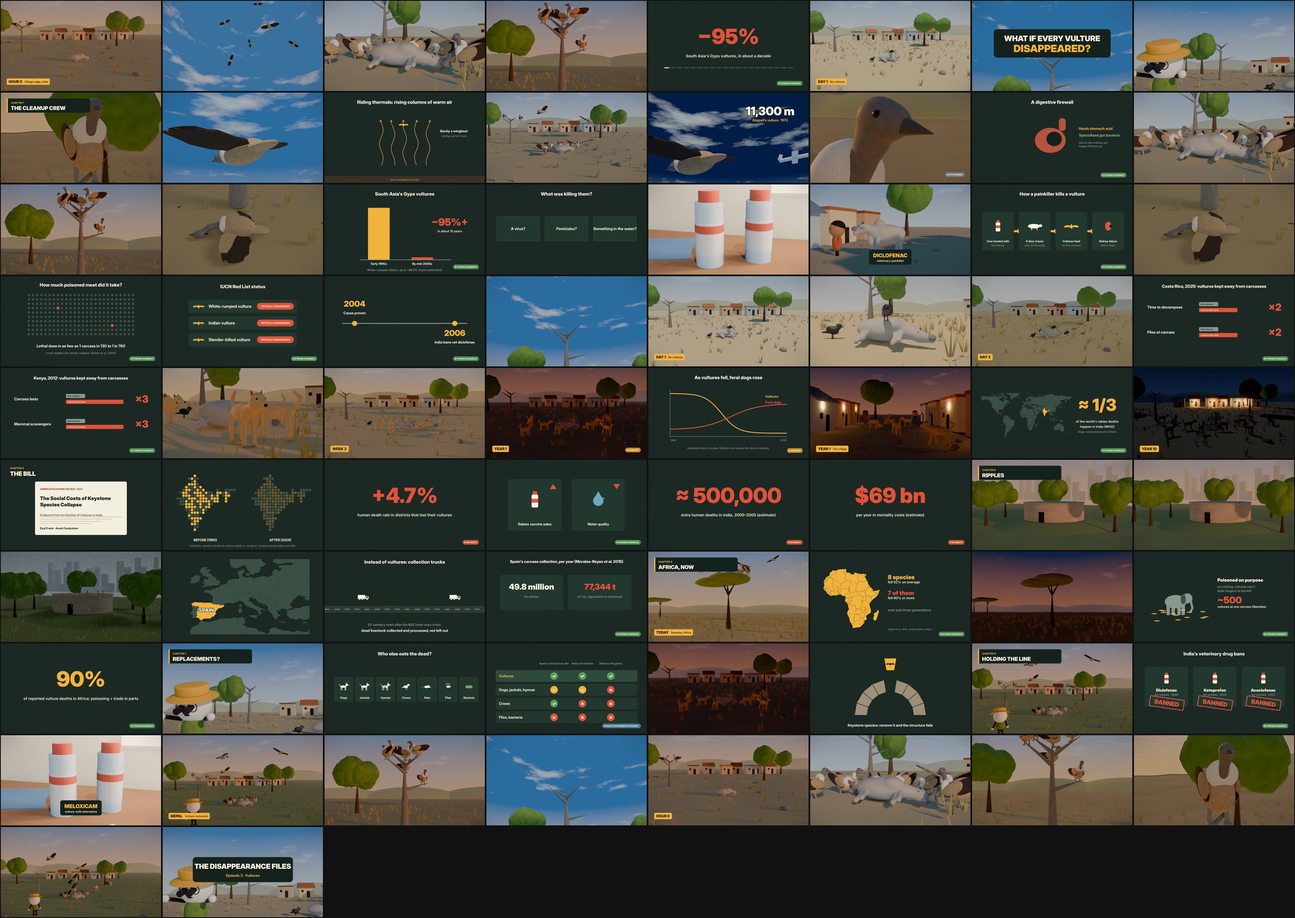
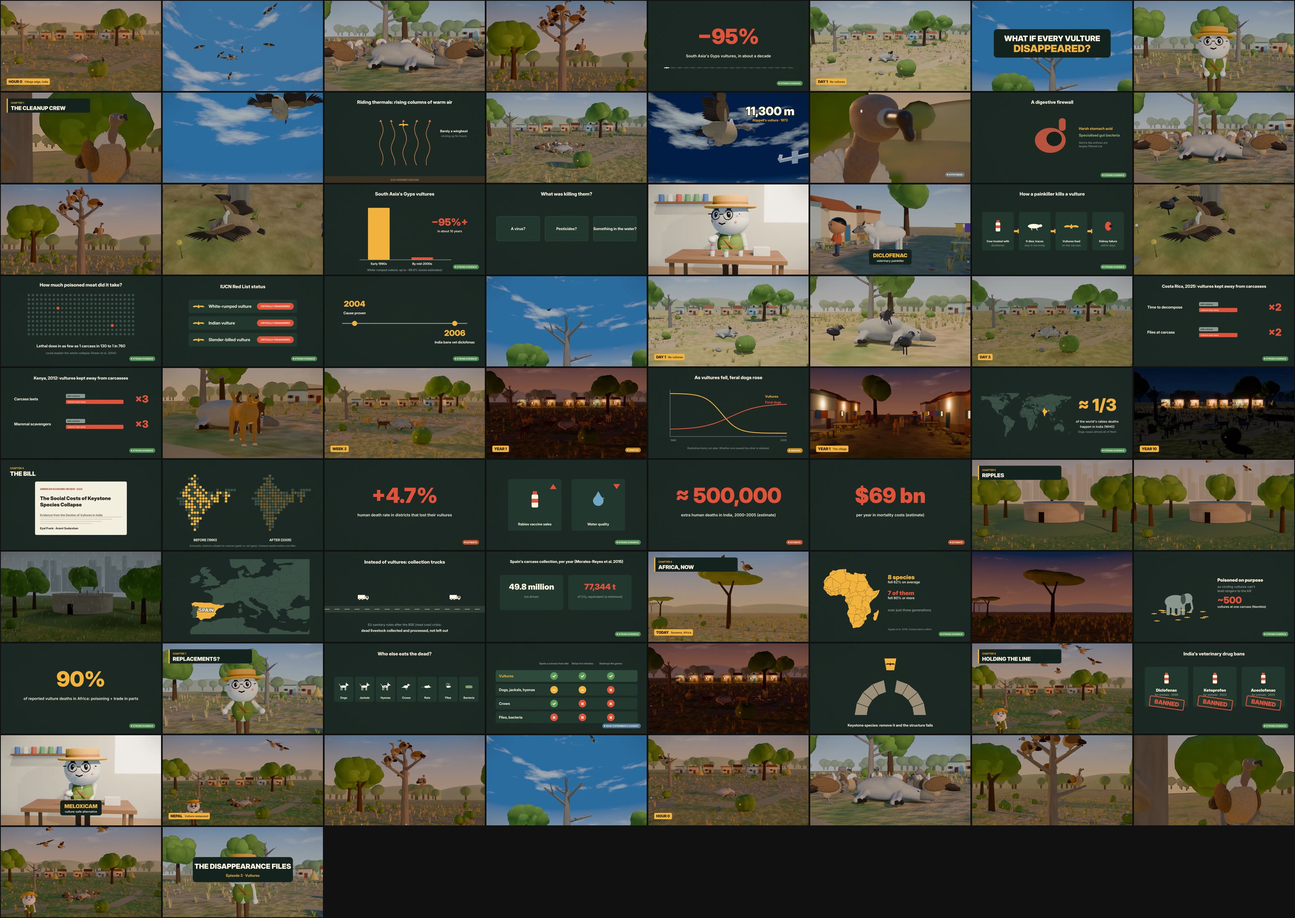
Episode 3 v2: fully animated 10:00 review cut
- 45 animated 3D scenes: rigged vultures (feed, land, soar, display,
  blink), dogs (walk, sniff, tug, sit), Pip (wave, talk, point,
  binoculars, look up), crows, cow and villagers
- detailed environments; one full-3D orbit shot
- same narration, score and timing; QC pass (74 scenes, 10:00,
  1080p24, no black frames)
- review master + compact 720p, SRT, chapters, QC report, edit stems

Claude-Session: https://claude.ai/code/session_01TihUFgZp2d2FxV6iVgmJbD

diff --git a/YOUTUBE_PRODUCTION/tools/vulture3d/render3.py b/YOUTUBE_PRODUCTION/tools/vulture3d/render3.py
@@ -232,6 +232,8 @@ SCENES = {
 FULL = {
     71: dict(plate="ROOST_wide", light="golden", actors=perched(7, 710), camera="orbit"),
 }
+SCENES[65] = dict(plate="ROOM", actors=[(PIP, "talk", (0.0, 0.9, 0), 0.0, 1.0, 65,
+                                         dict(schedule=[(0, "point"), (2.2, "talk")]))])
 SCENES[73] = dict(plate="DUMP_nepal", actors=feeders(4, 73) + landers(2, 730, delay0=0.6, gap=2.4) +
                   circlers(5, (0, 4, 0), r=(4, 9), z=(6, 13), seed=73) +
                   [(PIP, "look_up", (-5.5, -6.5, 0), 0.3, 1.0, 73, {})])

diff --git a/YOUTUBE_PRODUCTION/01_PROJECTS/what_if_vultures_disappeared/00_Project_Admin/production_tracker.md b/YOUTUBE_PRODUCTION/01_PROJECTS/what_if_vultures_disappeared/00_Project_Admin/production_tracker.md
@@ -1,7 +1,11 @@
 # Production Tracker: What If Every Vulture Disappeared? (Episode 3)
 
 - **Created:** 2026-11-26.
-- **Status:** review video exported. **Waiting for your approval** (final-video gate). The script gate is also still open.
+- **Status:** **v2 animated review video exported** (2026-11-26). **Waiting for your approval** (final-video gate). The script gate is also still open.
+- **v2 changes** (your feedback: "it's just images, not animation…"):
+  - every 3D scene is animated with rigged characters;
+  - detailed backgrounds;
+  - same narration, music and 10:00 timing.
 
 | Phase | Status | Outputs | Approval needed | Next action |
 |---|---|---|---|---|
@@ -10,8 +14,8 @@
 | Script draft | **Complete** | `04_Script/script_draft.md`, `script_final.md`, `script_sources.md` (1,355 words) | **Yes: still open.** Produced end-to-end at your request ("generate 10 minutes of video as soon as possible") | Review; revisions welcome |
 | Storyboard | **Complete** | `06_Storyboard/storyboard.md`, `scene_list.csv`, `storyboard.json`, `asset_requirements.md` (74 scenes) | — | — |
 | Style bible + 3D assets | **Complete** | `05_Style_Bible/STYLE_BIBLE_EP3.md`; procedural assets in `tools/vulture3d/lib.py` | — | — |
-| Scene builds + renders | **Complete** | `08_Scenes/renders/` (26 stills, 3 animations, settings JSON per shot), `08_Scenes/render_log*.txt` | — | — |
-| Animation / compositing | **Complete** | `09_Animation/SC001–SC074.mp4`, `scene_timing.json` | — | — |
+| Scene builds + renders | **Complete (v2)** | `08_Scenes/renders3/plates/` (27 detailed plates; JPEG copies committed), character passes and full-3D orbit (frames not committed; rebuild with `tools/vulture3d/render3.py`). v1 stills remain in `08_Scenes/renders/` | — | — |
+| Animation / compositing | **Complete (v2)** | 45 animated 3D scenes (`tools/vulture3d/compose3.py`) and 29 animated cards; `09_Animation/scene_timing.json` | — | — |
 | Narration | **Complete** | `10_Audio/narration/` (Kokoro `am_michael`, 74 files) | — | — |
 | Music + SFX | **Complete** | `10_Audio/music/score_vultures.wav` (original, synthesized), `10_Audio/sound_effects/` | — | — |
 | Edit + review export | **Complete** | `12_Exports/*_REVIEW.mp4`, `.srt`, chapters, `QC_REPORT.md`, `QC_contact_sheet.jpg`; edit package in `11_Edit/` | — | — |
@@ -21,7 +25,10 @@
 
 ## Known limitations
 
-- **Animation:** most shots are 3D stills with eased camera moves. Three are true 3D animations (circling flock, orbit around the roost, final wide). Creature limbs are not rigged or walk-cycled; this was a CPU-only render budget decision.
+- **Animation (v2):**
+  - Characters are rendered at 12 fps and held on twos; camera moves are at 24 fps.
+  - One shot (SC071) has a true 3D camera orbit. The others use eased 2D camera moves over detailed 3D plates.
+  - The reason is the CPU-only render budget.
 - **Narration voice:** Kokoro TTS. Pronunciation of "Rüppell's" and "Sudarshan" was respelled for the TTS. Listen for any odd words.
 - **Simplified visuals:**
   - The dog-vs-vulture trend chart is labelled "illustrative, not data".

diff --git a/YOUTUBE_PRODUCTION/01_PROJECTS/what_if_vultures_disappeared/00_Project_Admin/production_log.md b/YOUTUBE_PRODUCTION/01_PROJECTS/what_if_vultures_disappeared/00_Project_Admin/production_log.md
@@ -7,3 +7,12 @@
 - Blender look-dev: fixed metaball capsule sizing (absolute half-length), sky/haze compositing (Env pass + mist on geometry only), vulture proportions, beak, fallen pose; point lights were placed at the origin (bug) - fixed, P07/P18 re-rendered
 - Renders: 26 stills at 2304x1296 (13-60 s each), A01 68 f, A02 108 f, A03 94 f at 1600x900
 - Cards: 24 designs; layout fixes (tag position, compare legend, bans stamp, poison layout)
+- v2 (2026-11-26): rigs.py, envs2.py, render3.py, compose3.py.
+  - Plates: 27 at 2304×1296 / 16 samples, about 90 s each.
+  - Character passes: 45 scenes, about 4,000 frames at 12 fps, 4–7 s per frame; 3–6 parallel workers with a claim-based queue.
+  - Full-3D orbit (SC071): 108 frames.
+- v2 fixes:
+  - Portrait and head framing re-rendered: the head was under the chapter card.
+  - Soaring shot re-pathed: the bird had left the frame.
+  - SC073 switched from full-3D to layered for render time.
+  - SC065 was missed in the first v2 pass and was added.
